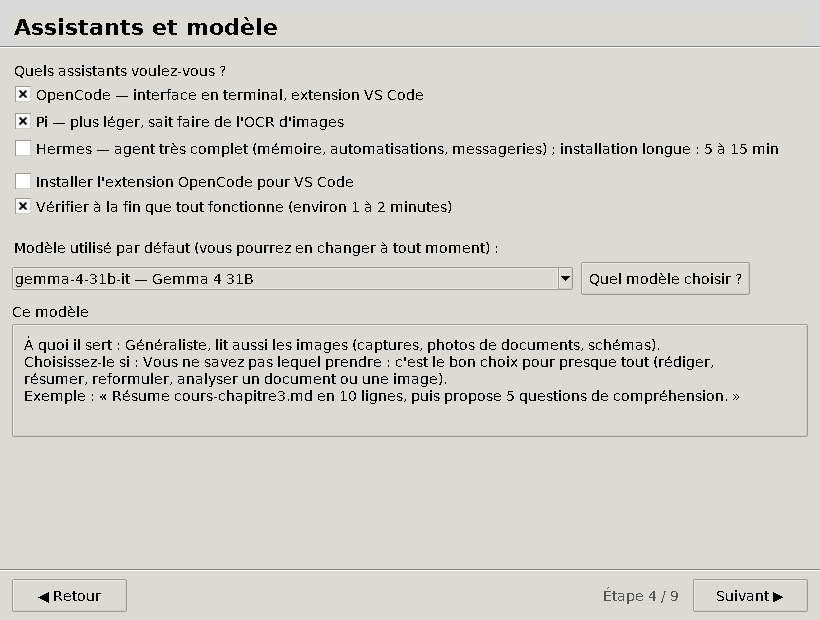
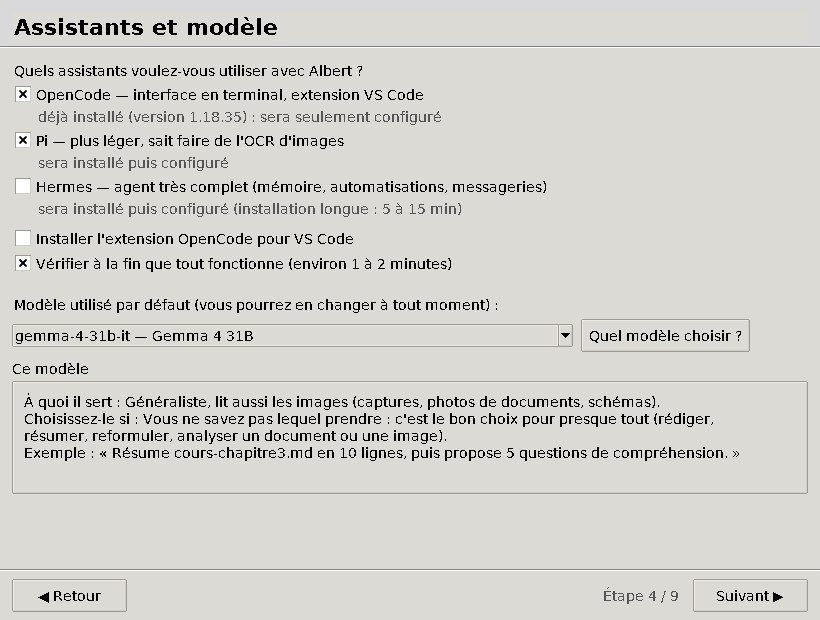
Assistants déjà installés : annoncer « sera seulement configuré »
- Écran « Assistants et modèle » et mode texte : pour chaque assistant, indique s'il
  sera installé puis configuré, ou seulement configuré (déjà présent), ou mis à jour
  (OpenCode v2, Pi < 1.0). Hermes déjà installé est coché d'office.
- Étapes renommées « OpenCode (installer ou vérifier) », etc.
- Détection : PATH lu depuis un shell interactif (~/.zshrc, ~/.bashrc : nvm et
  installeurs), dossiers de Hermes ajoutés.
- Test, README et captures mis à jour.

Claude-Session: https://claude.ai/code/session_014AhyekR9pLrnAy1xotwQ2P

diff --git a/configurateur_albert/gui.py b/configurateur_albert/gui.py
@@ -171,6 +171,9 @@ class App(tk.Tk):
             self.btn_next.state(["!disabled"])
             return
         self.diag = d
+        # Un assistant déjà présent est coché d'office : il sera seulement configuré.
+        if d.hermes:
+            self.var_hermes.set(True)
         rows = [("Système", d.os, "ok")]
         if d.node:
             rows.append(("Node.js", d.node + ("" if d.node_ok_for_pi else " (trop ancien pour Pi : une copie récente sera installée)"),
@@ -262,16 +265,12 @@ class App(tk.Tk):
     def page_tools(self) -> None:
         self.header.configure(text="Assistants et modèle")
         d = self.diag
-        ttk.Label(self.body, text="Quels assistants voulez-vous ?").pack(anchor="w")
-        ttk.Checkbutton(self.body, text="OpenCode — interface en terminal, extension VS Code"
-                        + (f" (installé : {d.opencode})" if d and d.opencode else ""),
-                        variable=self.var_opencode).pack(anchor="w", pady=2)
-        ttk.Checkbutton(self.body, text="Pi — plus léger, sait faire de l'OCR d'images"
-                        + (f" (installé : {d.pi})" if d and d.pi else ""),
-                        variable=self.var_pi).pack(anchor="w", pady=2)
-        ttk.Checkbutton(self.body, text="Hermes — agent très complet (mémoire, automatisations, messageries) ; "
-                        "installation longue : 5 à 15 min" + (f" (installé : {d.hermes})" if d and d.hermes else ""),
-                        variable=self.var_hermes).pack(anchor="w", pady=2)
+        ttk.Label(self.body, text="Quels assistants voulez-vous utiliser avec Albert ?").pack(anchor="w")
+        for var, (title, action) in ((self.var_opencode, installer.tool_choice("opencode", d)),
+                                     (self.var_pi, installer.tool_choice("pi", d)),
+                                     (self.var_hermes, installer.tool_choice("hermes", d))):
+            ttk.Checkbutton(self.body, text=title, variable=var).pack(anchor="w", pady=(2, 0))
+            ttk.Label(self.body, text=action, foreground="#555").pack(anchor="w", padx=(24, 0))
         cb = ttk.Checkbutton(self.body, text="Installer l'extension OpenCode pour VS Code",
                              variable=self.var_vscode)
         cb.pack(anchor="w", pady=(8, 0))

diff --git a/configurateur_albert/system.py b/configurateur_albert/system.py
@@ -38,12 +38,12 @@ def redact(text: str) -> str:
 def _candidate_dirs() -> list[Path]:
     h = paths.home()
     dirs = [paths.private_node_bin(), h / ".opencode" / "bin", h / ".local" / "bin",
-            h / ".npm-global" / "bin"]
+            h / ".npm-global" / "bin", h / ".hermes" / "bin"]
     if IS_WINDOWS:
         appdata = Path(os.environ.get("APPDATA", h / "AppData" / "Roaming"))
         local = Path(os.environ.get("LOCALAPPDATA", h / "AppData" / "Local"))
         pf = Path(os.environ.get("ProgramFiles", r"C:\Program Files"))
-        dirs += [appdata / "npm", pf / "nodejs", local / "Programs" / "Microsoft VS Code" / "bin",
+        dirs += [appdata / "npm", pf / "nodejs", local / "hermes" / "bin", local / "Programs" / "Microsoft VS Code" / "bin",
                  pf / "Microsoft VS Code" / "bin", pf / "Git" / "cmd", local / "Programs" / "Git" / "cmd"]
     else:
         dirs += [Path("/opt/homebrew/bin"), Path("/usr/local/bin"), Path("/usr/bin"), Path("/bin")]
@@ -54,16 +54,19 @@ def _candidate_dirs() -> list[Path]:
 
 def _login_shell_path() -> list[str]:
     """Sur macOS, une application lancée depuis le Finder hérite d'un PATH minimal :
-    on récupère celui du shell de connexion (Homebrew, nvm…)."""
+    on récupère celui du shell de l'utilisateur. Shell interactif (-i) : nvm, et les
+    installeurs qui complètent le PATH, écrivent dans ~/.zshrc ou ~/.bashrc, que « -l »
+    seul ne lit pas. Les marqueurs isolent le PATH des messages d'accueil éventuels."""
     if IS_WINDOWS:
         return []
     shell = os.environ.get("SHELL") or ("/bin/zsh" if IS_MAC else "/bin/bash")
     try:
-        out = subprocess.run([shell, "-lc", 'printf "%s" "$PATH"'], capture_output=True,
+        out = subprocess.run([shell, "-ilc", 'printf "<<PATH>>%s<<FIN>>" "$PATH"'], capture_output=True,
                              text=True, timeout=8, stdin=subprocess.DEVNULL, check=False)
-        return [p for p in out.stdout.strip().split(":") if p]
     except (OSError, subprocess.SubprocessError):
         return []
+    m = re.search(r"<<PATH>>(.*?)<<FIN>>", out.stdout, re.S)
+    return [p for p in m.group(1).split(":") if p] if m else []
 
 
 def refresh_path() -> None:

diff --git a/configurateur_albert/installer.py b/configurateur_albert/installer.py
@@ -35,9 +35,9 @@ STEPS = [
     ("cle", "Ranger la clé Albert"),
     ("node", "Node.js"),
     ("windows", "Réglages Windows"),
-    ("opencode", "Installer OpenCode"),
-    ("pi", "Installer Pi"),
-    ("hermes", "Installer Hermes"),
+    ("opencode", "OpenCode (installer ou vérifier)"),
+    ("pi", "Pi (installer ou vérifier)"),
+    ("hermes", "Hermes (installer ou vérifier)"),
     ("config", "Brancher Albert (configurations)"),
     ("skills", "Installer les skills"),
     ("vscode", "Extension VS Code"),
@@ -95,6 +95,30 @@ def diagnose() -> Diagnostic:
         key=keystore.existing_key(),
         hermes=hermes.version(),
     )
+
+
+TOOLS = {
+    "opencode": "OpenCode — interface en terminal, extension VS Code",
+    "pi": "Pi — plus léger, sait faire de l'OCR d'images",
+    "hermes": "Hermes — agent très complet (mémoire, automatisations, messageries)",
+}
+
+
+def tool_choice(tool: str, d: Diagnostic | None) -> tuple[str, str]:
+    """Libellé d'un assistant et ce qui sera fait s'il est coché : un outil déjà présent
+    (dans une version utilisable) n'est pas réinstallé, seulement configuré."""
+    version = getattr(d, tool, None) if d else None
+    install = "sera installé puis configuré"
+    if tool == "hermes":
+        install += " (installation longue : 5 à 15 min)"
+    if not version:
+        return TOOLS[tool], install
+    if tool == "opencode" and d.opencode_major != 1:
+        return TOOLS[tool], f"version {version} détectée : la version 1 (testée) sera installée puis configurée"
+    v = system.parse_version(version)
+    if tool == "pi" and v is not None and v < (1, 0, 0):
+        return TOOLS[tool], f"ancienne version {version} détectée : sera mise à jour puis configurée"
+    return TOOLS[tool], f"déjà installé (version {version}) : sera seulement configuré"
 
 
 def catalog_items(kind: str, ids: list[str]) -> list[dict]:

diff --git a/docs/captures/generer.py b/docs/captures/generer.py
@@ -41,14 +41,14 @@ RAW_MODELS = [
 
 installer.diagnose = lambda: installer.Diagnostic(
     os="macOS 15.6 (arm64)", node="20.11.0", node_ok_for_pi=False, npm_writable=False,
-    git_bash=None, opencode=None, pi=None, vscode=True, key=None)
+    git_bash=None, opencode="1.18.35", pi=None, vscode=True, key=None)
 albert.list_raw = lambda key, base_url=None: RAW_MODELS
 
 STEPS_DONE = [
     ("cle", "ok", "Clé sk-eyJh… rangée"),
     ("node", "ok", "Node.js installé dans votre dossier personnel"),
     ("windows", "ignoré", "Non concerné"),
-    ("opencode", "ok", "Version 1.18.35 installée"),
+    ("opencode", "ok", "Déjà installé (version 1.18.35)"),
     ("pi", "ok", "Version 1.0.4 installée"),
     ("hermes", "ignoré", "Non demandé"),
     ("config", "ok", "Modèle par défaut : gemma-4-31b-it"),
@@ -62,8 +62,6 @@ LOG = [
     "Recherche de la dernière version LTS de Node.js…",
     "Téléchargement de node-v24.21.0-darwin-arm64.tar.gz…",
     "Archive vérifiée (SHA-256).",
-    "$ npm install -g opencode-ai@1",
-    "  added 3 packages in 14s",
     "$ npm install -g --ignore-scripts @earendil-works/pi-coding-agent@1",
     "  added 121 packages in 11s",
     "Préparation du connecteur MarkItDown (lecture de documents) (téléchargement, une seule fois)…",

diff --git a/tests/test_core.py b/tests/test_core.py
@@ -379,3 +379,20 @@ def test_model_guide_covers_every_known_model():
         assert f.known == (m.id != "inconnu-7b")
     text = modelguide.text_guide(albert.usable_models(raw), dt.date(2026, 10, 7))
     assert "qwen3-coder-30b-a3b-instruct" in text and "7 octobre 2026" in text
+
+
+def test_outil_deja_installe_seulement_configure():
+    from configurateur_albert import installer
+
+    def diag(**kw):
+        base = dict(os="Linux", node="22.20.0", node_ok_for_pi=True, npm_writable=True, git_bash=None,
+                    opencode=None, pi=None, vscode=False, key=None, hermes=None)
+        return installer.Diagnostic(**{**base, **kw})
+
+    assert "seulement configuré" in installer.tool_choice("opencode", diag(opencode="1.18.35"))[1]
+    assert "version 1 (testée) sera installée" in installer.tool_choice("opencode", diag(opencode="2.0.1"))[1]
+    assert "seulement configuré" in installer.tool_choice("pi", diag(pi="1.0.4"))[1]
+    assert "mise à jour" in installer.tool_choice("pi", diag(pi="0.9.0"))[1]
+    assert "seulement configuré" in installer.tool_choice("hermes", diag(hermes="0.12.0"))[1]
+    assert "5 à 15 min" in installer.tool_choice("hermes", diag())[1]
+    assert installer.tool_choice("pi", None)[1] == "sera installé puis configuré"

diff --git a/configurateur_albert/cli.py b/configurateur_albert/cli.py
@@ -84,9 +84,14 @@ def main_install() -> int:
     if answer.isdigit() and 1 <= int(answer) <= len(models):
         default = models[int(answer) - 1].id
 
-    want_oc = ask_yes("\nInstaller et configurer OpenCode ?")
-    want_pi = ask_yes("Installer et configurer Pi ?")
-    want_hermes = ask_yes("Installer et configurer Hermes (installation longue : 5 à 15 min) ?", False)
+    def want(tool: str, default: bool = True) -> bool:
+        title, action = installer.tool_choice(tool, d)
+        return ask_yes(f"{title.split(' — ')[0]} : {action}. D'accord ?", default)
+
+    print()
+    want_oc = want("opencode")
+    want_pi = want("pi")
+    want_hermes = want("hermes", bool(d.hermes))
     if not (want_oc or want_pi or want_hermes):
         print("Rien à faire.")
         return 0

diff --git a/README.md b/README.md
@@ -168,7 +168,10 @@ connexion…). Si une clé est déjà enregistrée sur l'ordinateur, l'applicati
 
 - **OpenCode** : le plus guidé, avec une extension pour VS Code. **Pi** : plus léger, sait
   aussi recopier le texte d'une image (OCR). Vous pouvez installer les deux.
-- **Hermes** (décoché par défaut) : agent très complet de Nous Research — mémoire d'une
+- Sous chaque assistant, l'écran indique ce qui sera fait : **« déjà installé : sera
+  seulement configuré »** (rien n'est réinstallé, seule la connexion à Albert est ajoutée)
+  ou **« sera installé puis configuré »**. Un assistant déjà présent est coché d'office.
+- **Hermes** (décoché par défaut, sauf s'il est déjà installé) : agent très complet de Nous Research — mémoire d'une
   session à l'autre, création de ses propres skills, tâches programmées, messageries
   (Telegram, Discord…). Son installation est **longue (5 à 15 minutes) et volumineuse (environ
   2,5 Go)** : réservez-le aux collègues qui en ont l'usage. Sous macOS, il a besoin des
@@ -392,9 +395,9 @@ $env:CONFIGURATEUR_TEXTE = "1"; irm https://raw.githubusercontent.com/mrouxprofd
 |---|---|
 | ✖ sur « Node.js » | Installez Node.js (version **LTS**) depuis https://nodejs.org, puis relancez la commande. |
 | ! sur « Réglages Windows » (Git for Windows absent) | Installez Git depuis https://git-scm.com/download/win (options par défaut), puis relancez. |
-| ! sur « Installer Hermes » (macOS) : « outils de ligne de commande » | Cliquez sur **Installer** dans la fenêtre d'Apple, attendez la fin (5 à 10 min), puis relancez la commande. |
-| ✖ sur « Installer Hermes » | Souvent le réseau (téléchargements volumineux) ou l'espace disque (2,5 Go) : réessayez sur une autre connexion ; `hermes doctor` donne le détail. |
-| ✖ sur « Installer OpenCode » : « une autre version reste prioritaire » | Une version 2 d'OpenCode installée autrement (Homebrew…) masque la version 1 : désinstallez-la puis relancez. |
+| ! sur « Hermes (installer ou vérifier) » (macOS) : « outils de ligne de commande » | Cliquez sur **Installer** dans la fenêtre d'Apple, attendez la fin (5 à 10 min), puis relancez la commande. |
+| ✖ sur « Hermes (installer ou vérifier) » | Souvent le réseau (téléchargements volumineux) ou l'espace disque (2,5 Go) : réessayez sur une autre connexion ; `hermes doctor` donne le détail. |
+| ✖ sur « OpenCode (installer ou vérifier) » : « une autre version reste prioritaire » | Une version 2 d'OpenCode installée autrement (Homebrew…) masque la version 1 : désinstallez-la puis relancez. |
 | ! sur « Vérifications » | Lisez le détail : souvent un quota Albert atteint (429) ou Albert saturé (503). Réessayez plus tard ; le reste de l'installation est en place. |
 
 ### Ensuite, en utilisant OpenCode ou Pi
